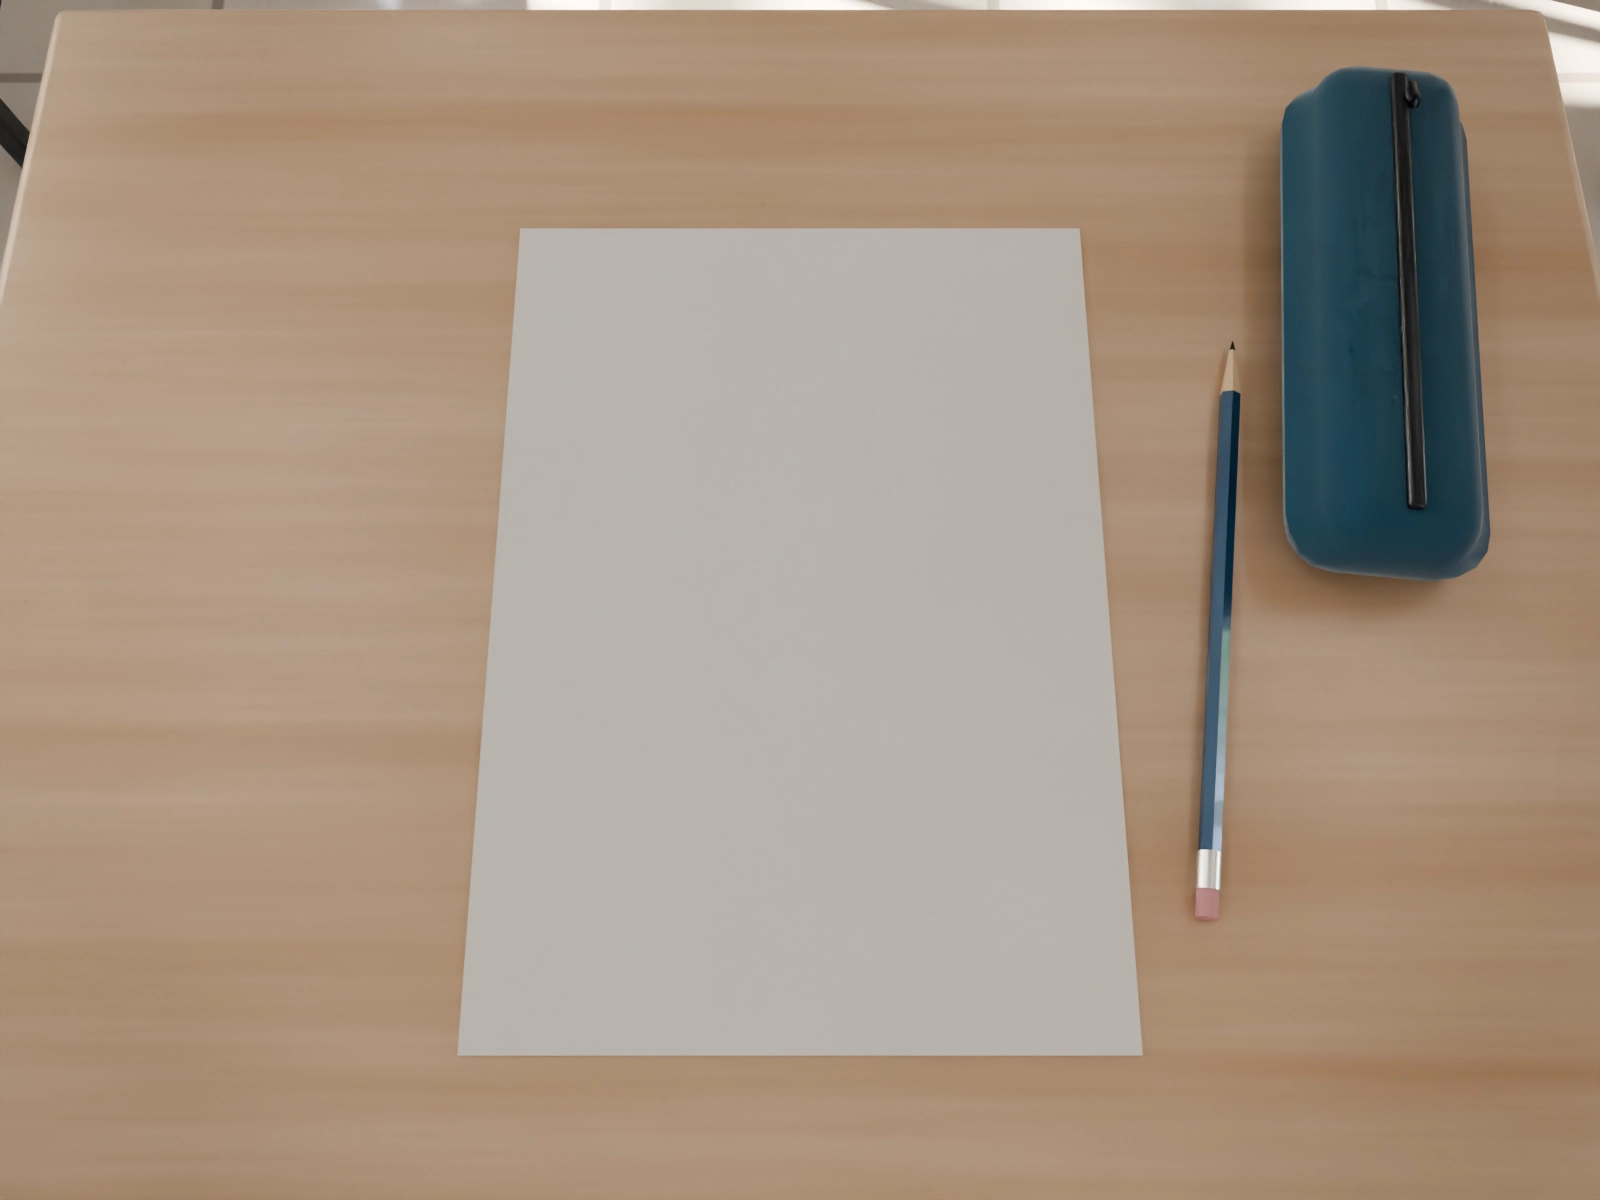
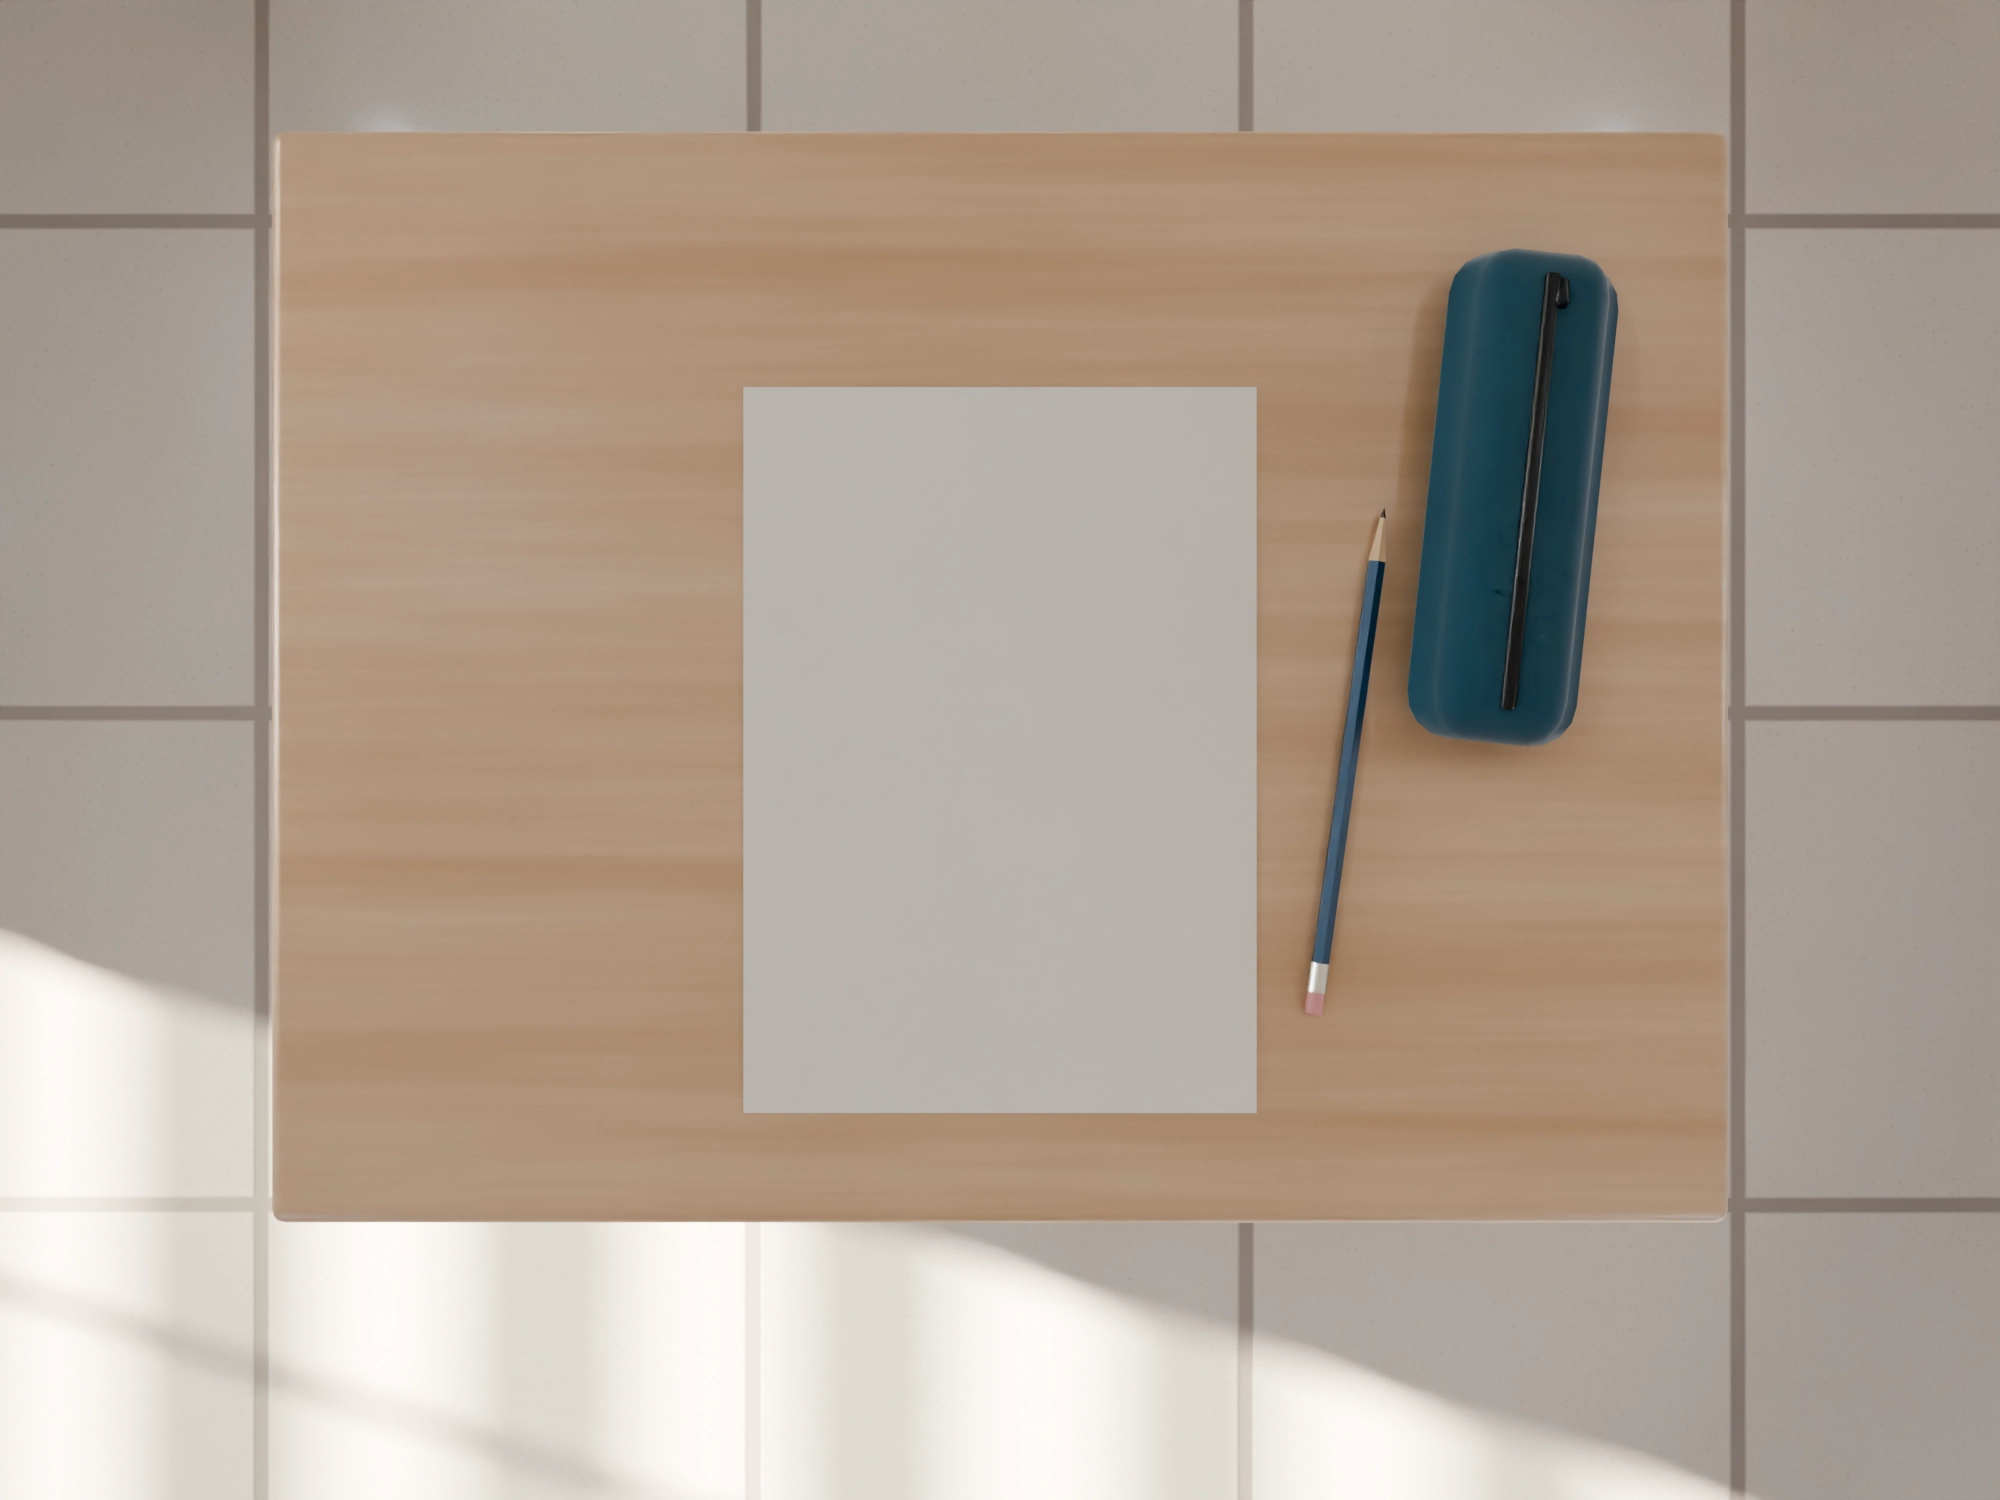
Preview: paper seen from above, ribbons braid upward

diff --git a/js/landing2/ribbons.js b/js/landing2/ribbons.js
@@ -1,5 +1,5 @@
 // Two ribbons (teal = IPA, gold = IPS) that fly in from the sides as the students move together: each wraps its
-// own student, then the two tie a single bow where their backs meet (two roads, one knot).
+// own student, then the two braid together where their backs meet and rise into the light.
 // Drawn with Canvas 2D on two canvases: segments that pass behind the students go to `back` (under the characters canvas), segments in front go to `front` (over it).
 const RIBBONS = [
   { from: -1, base: [46, 181, 192], light: [190, 250, 246], dark: [16, 104, 118], ry: 1.0, dy: -0.04, twist: 0.021, speed: 1.15 },
@@ -16,12 +16,10 @@ function spline(pts, perSeg) {
     for (let k = 0; k < perSeg; k++) {
       const t = k / perSeg, t2 = t * t, t3 = t2 * t;
       const f = (a, b, c, d) => 0.5 * ((2 * b) + (-a + c) * t + (2 * a - 5 * b + 4 * c - d) * t2 + (-a + 3 * b - 3 * c + d) * t3);
-      const k1 = p1[3] ?? 1, k2 = p2[3] ?? 1;
-      out.push([f(p0[0], p1[0], p2[0], p3[0]), f(p0[1], p1[1], p2[1], p3[1]), p1[2] + (p2[2] - p1[2]) * t, k1 + (k2 - k1) * t]);
+      out.push([f(p0[0], p1[0], p2[0], p3[0]), f(p0[1], p1[1], p2[1], p3[1]), p1[2] + (p2[2] - p1[2]) * t]);
     }
   }
-  const last = pts[pts.length - 1];
-  out.push([last[0], last[1], last[2], last[3] ?? 1]);
+  out.push(pts[pts.length - 1].slice());
   return out;
 }
 
@@ -39,7 +37,7 @@ export function createRibbons({ back, front }) {
 
   // control points for one ribbon (each point is [x, y, depth]). The story it tells:
   // teal (IPA) flies in from the left and wraps the boy, gold (IPS) from the right wraps the girl ("beda jalan");
-  // both then run to where their backs meet and tie one bow: each ribbon's loop opens on the other's side ("satu tujuan").
+  // both then run to the point where their backs meet and braid together, rising into the light ("satu tujuan").
   function path(rb, bodies) {
     const { boy, girl } = bodies;
     const s = rb.from, own = s < 0 ? boy : girl;
@@ -47,21 +45,16 @@ export function createRibbons({ back, front }) {
     const R = Math.max(boy.height, girl.height);
     const c = own.chest, r = own.halfW * 1.3, ry = R * 0.06 * rb.ry;
     const out = c.x + s * r, inn = c.x - s * r;
-    const W = st.W, bw = R * 0.12, bh = R * 0.042;          // bow loop reach and height
-    const K = { x: X.x, y: X.y - R * 0.022 };                 // the knot, high on their backs where they meet
-    const cy = c.y + R * 0.035;                               // its own wrap sits a little lower, clear of the bow
-    // [x, y, depth, flutter]: flutter 1 = free ribbon, near 0 = the bow's crisp, flat loops
-    const k = (dx, dy, fl) => [K.x + s * bw * dx, K.y + bh * dy, 1, fl];
+    const W = st.W, b = R * 0.032, f = s < 0 ? 1 : 0;      // braid width; which ribbon is in front at each crossing
     const pts = [
-      [s < 0 ? -0.12 * W : 1.12 * W, cy + R * 0.28, 1], [out + s * r * 1.3, cy + R * 0.13, 1],
+      [s < 0 ? -0.12 * W : 1.12 * W, c.y + R * 0.28, 1], [out + s * r * 1.3, c.y + R * 0.13, 1],
       // one loop around its own student, rising: front, inner side, behind, outer side, front
-      [out, cy + ry, 0.8], [c.x, cy + ry * 1.3, 1], [inn, cy + ry * 0.4, 0.55], [c.x, cy - ry * 0.3, 0],
-      [out, cy - ry * 0.7, 0.4], [c.x, cy - ry * 1.1, 1, 0.8],
-      // up into the knot from its own side, then its bow loop opens on the OTHER student's side...
-      k(0.62, 1.7, 0.45), k(0.22, 0.5, 0.12), k(0, 0, 0.04), k(-0.3, -0.62, 0.03), k(-0.72, -1.02, 0.03), k(-1.06, -0.66, 0.03),
-      k(-1.12, 0.12, 0.03), k(-0.72, 0.56, 0.03), k(-0.2, 0.26, 0.04), k(0, 0.06, 0.05),
-      // ...and its tail falls back on its own side: each carries a piece of the other, tied as one
-      k(0.3, 1.25, 0.25), k(0.5, 2.7, 0.6), k(0.4, 4.2, 0.9),
+      [out, c.y + ry, 0.8], [c.x, c.y + ry * 1.3, 1], [inn, c.y + ry * 0.4, 0.55], [c.x, c.y - ry * 0.3, 0],
+      [out, c.y - ry * 0.7, 0.4], [c.x, c.y - ry * 1.2, 1],
+      // to where their backs meet, then braid upward together
+      [X.x + s * b * 1.2, X.y - R * 0.05, 0.8],
+      [X.x - s * b, X.y - R * 0.11, f], [X.x + s * b, X.y - R * 0.17, 1 - f], [X.x - s * b * 0.8, X.y - R * 0.23, f],
+      [X.x + s * b * 0.55, X.y - R * 0.29, 1 - f], [X.x - s * b * 0.25, X.y - R * 0.34, f], [X.x, X.y - R * 0.38, 0.5],
     ];
     return spline(pts, 18);
   }
@@ -84,8 +77,8 @@ export function createRibbons({ back, front }) {
       for (let i = 0; i < p.length && L[i] <= head; i++) {
         const a = p[Math.max(0, i - 1)], b = p[Math.min(p.length - 1, i + 1)];
         let nx = -(b[1] - a[1]), ny = b[0] - a[0]; const nl = Math.hypot(nx, ny) || 1; nx /= nl; ny /= nl;
-        const wave = Math.sin(L[i] * 0.008 - t * 1.8 * rb.speed) * width * 0.45 * p[i][3];
-        pts.push({ x: p[i][0] + nx * wave, y: p[i][1] + ny * wave, d: p[i][2], s: L[i], nx, ny, k: p[i][3] });
+        const wave = Math.sin(L[i] * 0.008 - t * 1.8 * rb.speed) * width * 0.45;
+        pts.push({ x: p[i][0] + nx * wave, y: p[i][1] + ny * wave, d: p[i][2], s: L[i], nx, ny });
       }
       if (pts.length < 2) continue;
       // soft glow under the whole ribbon (one stroke per canvas)
@@ -103,18 +96,10 @@ export function createRibbons({ back, front }) {
         const ctx = q0.d > 0.5 ? cf : cb;
         const phi0 = q0.s * rb.twist + t * 1.3 * rb.speed, phi1 = q1.s * rb.twist + t * 1.3 * rb.speed;
         const taper = (s) => Math.min(1, s / 60, (head - s) / 45 + 0.15);
-        // bow loops stay flat and broad; free ribbon twists
-        const tw = (phi, kk) => { const m = Math.min(1, kk * 2.5); return 1 - m + m * (0.22 + 0.78 * Math.abs(Math.cos(phi))); };
-        const w0 = width * tw(phi0, q0.k) * taper(q0.s), w1 = width * tw(phi1, q1.k) * taper(q1.s);
+        const w0 = width * (0.22 + 0.78 * Math.abs(Math.cos(phi0))) * taper(q0.s), w1 = width * (0.22 + 0.78 * Math.abs(Math.cos(phi1))) * taper(q1.s);
         const face = Math.cos((phi0 + phi1) / 2);
         const shade = 0.5 + 0.5 * Math.abs(face);
         let c = face > 0 ? mixc(rb.base, rb.light, Math.pow(shade, 3) * 0.8) : mixc(rb.dark, rb.base, shade * 0.7);
-        // the flat bow loops get a smooth satin sheen instead of twist banding
-        const flat = 1 - Math.min(1, q0.k * 2.5);
-        if (flat > 0) {
-          const sheen = 0.5 + 0.5 * Math.sin(q0.s * 0.011 + t * 0.6 * rb.speed);
-          c = mixc(c, mixc(mixc(rb.dark, rb.base, 0.75), rb.light, sheen * 0.55), flat);
-        }
         c = mixc(c, rb.light, light * 0.5);
         ctx.fillStyle = rgba(c, alpha * (q0.d > 0.5 ? 1 : 0.92));
         ctx.beginPath();
@@ -133,24 +118,6 @@ export function createRibbons({ back, front }) {
         cf.beginPath(); cf.arc(q.x + Math.sin(t * 3 + k) * 6, q.y + Math.cos(t * 2.5 + k) * 6, r, 0, Math.PI * 2); cf.fill();
       }
       cf.fillStyle = rgba(rb.light, 0.9 * alpha * (progress < 1 ? 1 : 0)); cf.beginPath(); cf.arc(tip.x, tip.y, width * 0.45, 0, Math.PI * 2); cf.fill();
-      cf.restore();
-    }
-    // the knot that binds them: half teal, half gold, tied once both bows are complete
-    const ka = alpha * Math.max(0, Math.min(1, (progress - 0.9) / 0.1));
-    if (ka > 0) {
-      const { boy, girl } = bodies, R = Math.max(boy.height, girl.height);
-      const kx = (boy.back + girl.back) / 2, ky = (boy.chest.y + girl.chest.y) / 2 - R * 0.022;
-      const w = Math.max(9, Math.min(22, boy.height * 0.03)), rx = w * 0.55, ry = w * 0.78;
-      const [a, b] = RIBBONS, g = cf.createLinearGradient(kx - rx, ky - ry, kx + rx, ky + ry);
-      g.addColorStop(0, rgba(mixc(a.base, a.light, 0.35 + 0.4 * light), ka)); g.addColorStop(0.48, rgba(mixc(a.base, a.dark, 0.2), ka));
-      g.addColorStop(0.52, rgba(mixc(b.base, b.dark, 0.2), ka)); g.addColorStop(1, rgba(mixc(b.base, b.light, 0.35 + 0.4 * light), ka));
-      cf.save();
-      cf.shadowColor = rgba([255, 236, 200], 0.6 * ka); cf.shadowBlur = 10 * (1 + light);
-      cf.fillStyle = g; cf.beginPath(); cf.roundRect(kx - rx, ky - ry, rx * 2, ry * 2, rx * 0.8); cf.fill();
-      cf.shadowBlur = 0; cf.strokeStyle = rgba([255, 250, 235], 0.6 * ka); cf.lineWidth = 1.1; cf.lineCap = 'round';
-      // two soft creases where the ribbon is pulled tight
-      cf.beginPath(); cf.moveTo(kx - rx * 0.45, ky - ry * 0.55); cf.quadraticCurveTo(kx - rx * 0.1, ky, kx - rx * 0.4, ky + ry * 0.55);
-      cf.moveTo(kx + rx * 0.4, ky - ry * 0.5); cf.quadraticCurveTo(kx + rx * 0.12, ky, kx + rx * 0.45, ky + ry * 0.55); cf.stroke();
       cf.restore();
     }
   }

diff --git a/js/landing2/desk-paper.js b/js/landing2/desk-paper.js
@@ -1,4 +1,4 @@
-import { deskPose, homography, matrix3d, paperCorners, projectAll, rectCorners } from '../scene/camera-math.js';
+import { deskPhotoPose, deskSheetHeight, homography, matrix3d, paperCorners, projectAll, rectCorners } from '../scene/camera-math.js';
 
 // The photograph and the DOM sheet share the same camera projection. Resize the
 // photograph first, then apply that exact screen-space mapping to its paper corners.
@@ -9,17 +9,16 @@ export function createDeskPaper({ hero, poster, layer, sheet, page1, page2, titl
     if (layer.hidden) return;
     const { clientWidth: width, clientHeight: height } = layer;
     if (!width || !height) return;
-    const { quad, photoW, photoH } = anchor;
+    const { quad, photoW, photoH, scene } = anchor;
     const { x: left, y: top } = quad[0];
     const { x: right, y: bottom } = quad[2];
     const widest = right - quad[3].x;
-    const narrow = width < 640;
-    // One scale for both axes: preserve the proportions of the physical paper.
-    const scale = Math.min(816 / (bottom - top), height * .94 / (bottom - top),
-      680 / widest, (width - (narrow ? 30 : 70)) / widest);
+    // The photo is taken from straight above, so the sheet is a plain rectangle. One scale for both axes,
+    // shared with the 3D desk camera (deskSheetHeight) so the live view and the photo line up exactly.
+    const scale = deskSheetHeight(scene, width, height) / (bottom - top);
     const paperH = (bottom - top) * scale;
     const paperW = widest * scale;
-    const centerX = width / 2 - (narrow ? 5 : 0);
+    const centerX = width / 2;
     const x = centerX - photoW / 2 * scale;
     const y = height / 2 - (top + bottom) / 2 * scale;
     const projected = quad.map(p => ({ x: x + p.x * scale, y: y + p.y * scale }));
@@ -48,7 +47,7 @@ export function createDeskPaper({ hero, poster, layer, sheet, page1, page2, titl
   function open(scene) {
     const photoW = poster.naturalWidth || poster.width;
     const photoH = poster.naturalHeight || poster.height;
-    anchor = { photoW, photoH, quad: projectAll(deskPose(scene, photoW, photoH), photoW, photoH, paperCorners(scene)) };
+    anchor = { scene, photoW, photoH, quad: projectAll(deskPhotoPose(scene, photoW, photoH), photoW, photoH, paperCorners(scene)) };
     hero.classList.add('paper-on-desk');
     layer.hidden = false;
     layout();

diff --git a/js/scene/camera-math.js b/js/scene/camera-math.js
@@ -66,7 +66,22 @@ export function heroPose(scene, W, H, mobilePoster) {
 export function posterPose(scene, W, H, mobilePoster) {
   return camPose(scene.cameras[mobilePoster ? 'Cam_Hero_Square' : 'Cam_Hero'], W / H);
 }
-export const deskPose = (scene, W, H) => camPose(scene.cameras.Cam_Desk, W / H);
+// ---- desk: the sheet is filled in from straight above -----------------------
+// How tall the sheet appears on screen at the desk. The page scales the desk photo by this, and the 3D camera is fitted to it.
+export function deskSheetHeight(scene, W, H) {
+  const [pw, ph] = scene.paperAnchor.size, margin = W < 640 ? 30 : 70;
+  return Math.min(816, H * 0.94, (680 * ph) / pw, ((W - margin) * ph) / pw);
+}
+// the camera the desk photo (desk-poster.webp) was rendered with
+export const deskPhotoPose = (scene, W, H) => camPose(scene.cameras.Cam_Desk, W / H);
+// the live camera at the desk: straight above the paper like the photo, field of view narrowed so the sheet is
+// deskSheetHeight tall and centred, i.e. exactly the framing the page gives the scaled photo (no jump at the swap)
+export function deskPose(scene, W, H) {
+  const def = scene.cameras.Cam_Desk, pa = scene.paperAnchor;
+  const h = def.position[1] - pa.center[1];
+  const fov = (2 * Math.atan((pa.size[1] * H) / (2 * h * deskSheetHeight(scene, W, H)))) / DEG;
+  return { pos: [pa.center[0], def.position[1], pa.center[2]], quat: def.quaternion.slice(), fov, cam: def };
+}
 
 export const boardCorners = (scene) => scene.chalkboard.corners_TL_TR_BR_BL;
 export const paperCorners = (scene) => scene.paperAnchor.corners_TL_TR_BR_BL;

diff --git a/css/test-paper.css b/css/test-paper.css
@@ -12,7 +12,7 @@ body.sheet-open .topnav { visibility: hidden; }
   max-width: none;
   object-fit: contain;
   opacity: 1;
-  transition: none;
+  transition: opacity .5s ease;   /* the live 3D desk is darker than the photo: fade instead of a hard cut */
   mask-image: linear-gradient(90deg, transparent, #000 6% 94%, transparent),
     linear-gradient(180deg, transparent, #000 10% 90%, transparent);
   mask-composite: intersect;
